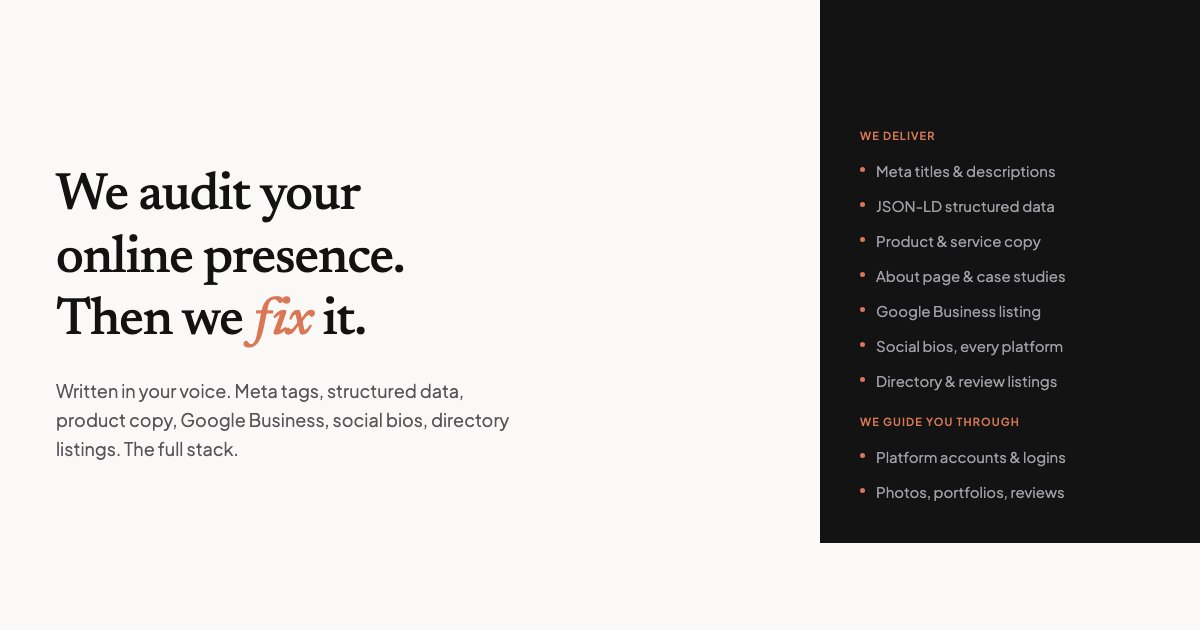
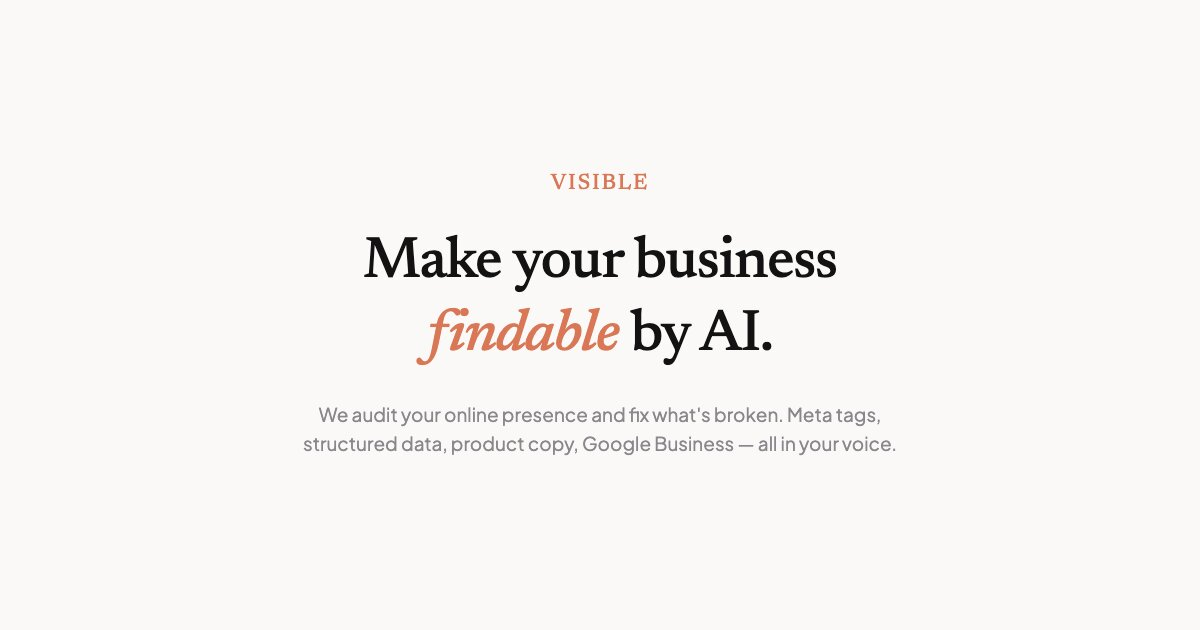
Rebrand to Visible

diff --git a/landing/index.html b/landing/index.html
@@ -3,16 +3,16 @@
 <head>
   <meta charset="UTF-8">
   <meta name="viewport" content="width=device-width, initial-scale=1.0">
-  <title>Brand Audit Tool — Make your business visible to AI</title>
-  <meta name="description" content="Your business is probably invisible to AI. We audit what's missing and fix it for you.">
-  <meta property="og:title" content="Your business is probably invisible to AI">
-  <meta property="og:description" content="We audit every page, platform, and signal — then fix what's broken. Structured data, meta tags, product descriptions, Google Business. All of it.">
+  <title>Visible — Make your business findable by AI</title>
+  <meta name="description" content="We audit your online presence and fix what's broken. Meta tags, structured data, product copy, Google Business, social bios — all written in your voice.">
+  <meta property="og:title" content="Visible — Make your business findable by AI">
+  <meta property="og:description" content="We audit your online presence and fix what's broken. Meta tags, structured data, product copy, Google Business, social bios — all written in your voice.">
   <meta property="og:type" content="website">
   <meta property="og:image" content="https://brand-audits.vercel.app/og.jpg">
   <meta property="og:url" content="https://brand-audits.vercel.app">
   <meta name="twitter:card" content="summary_large_image">
-  <meta name="twitter:title" content="Your business is probably invisible to AI">
-  <meta name="twitter:description" content="We audit every page, platform, and signal — then fix what's broken. Structured data, meta tags, product descriptions, Google Business. All of it.">
+  <meta name="twitter:title" content="Visible — Make your business findable by AI">
+  <meta name="twitter:description" content="We audit your online presence and fix what's broken. Meta tags, structured data, product copy, Google Business, social bios — all written in your voice.">
   <meta name="twitter:image" content="https://brand-audits.vercel.app/og.jpg">
   <link rel="preconnect" href="https://fonts.googleapis.com">
   <link rel="preconnect" href="https://fonts.gstatic.com" crossorigin>
@@ -709,7 +709,7 @@
 
   <!-- Nav -->
   <nav id="nav">
-    <a href="/" class="nav-mark">Brand Audit Tool</a>
+    <a href="/" class="nav-mark">Visible</a>
     <a href="/how-it-works" class="nav-cta">How it works</a>
   </nav>
 
@@ -896,8 +896,8 @@
 
   <!-- Footer -->
   <footer>
-    <span>Built by <a href="https://github.com/b1rdmania/brand-audit">AutonoLabs</a></span>
-    <a href="https://github.com/b1rdmania/brand-audit">Open source on GitHub</a>
+    <span>Visible by <a href="https://github.com/b1rdmania/brand-audit">AutonoLabs</a></span>
+    <a href="https://github.com/b1rdmania/brand-audit">Open source</a>
   </footer>
 
   <script>

diff --git a/landing/how-it-works.html b/landing/how-it-works.html
@@ -3,9 +3,12 @@
 <head>
   <meta charset="UTF-8">
   <meta name="viewport" content="width=device-width, initial-scale=1.0">
-  <title>How It Works — Brand Audit Tool</title>
+  <title>How It Works — Visible</title>
   <meta name="description" content="We scan every page, every platform, every signal an AI agent would use to decide whether to recommend your business. Then we fix what's broken.">
-  <meta property="og:title" content="How It Works — Brand Audit Tool">
+  <meta property="og:title" content="How It Works — Visible">
+  <meta property="og:image" content="https://brand-audits.vercel.app/og.jpg">
+  <meta name="twitter:card" content="summary_large_image">
+  <meta name="twitter:image" content="https://brand-audits.vercel.app/og.jpg">
   <meta property="og:description" content="We scan every page, every platform, every signal an AI agent would use to decide whether to recommend your business.">
   <meta property="og:type" content="website">
   <link rel="preconnect" href="https://fonts.googleapis.com">
@@ -545,7 +548,7 @@
 
   <!-- Nav -->
   <nav id="nav">
-    <a href="/" class="nav-mark">Brand Audit Tool</a>
+    <a href="/" class="nav-mark">Visible</a>
     <div class="nav-links">
       <a href="/how-it-works" class="nav-link active">How it works</a>
       <a href="/#waitlist" class="nav-cta">Join waitlist</a>
@@ -755,8 +758,8 @@
 
   <!-- Footer -->
   <footer>
-    <span>Built by <a href="https://github.com/b1rdmania/brand-audit">AutonoLabs</a></span>
-    <a href="https://github.com/b1rdmania/brand-audit">Open source on GitHub</a>
+    <span>Visible by <a href="https://github.com/b1rdmania/brand-audit">AutonoLabs</a></span>
+    <a href="https://github.com/b1rdmania/brand-audit">Open source</a>
   </footer>
 
   <script>
